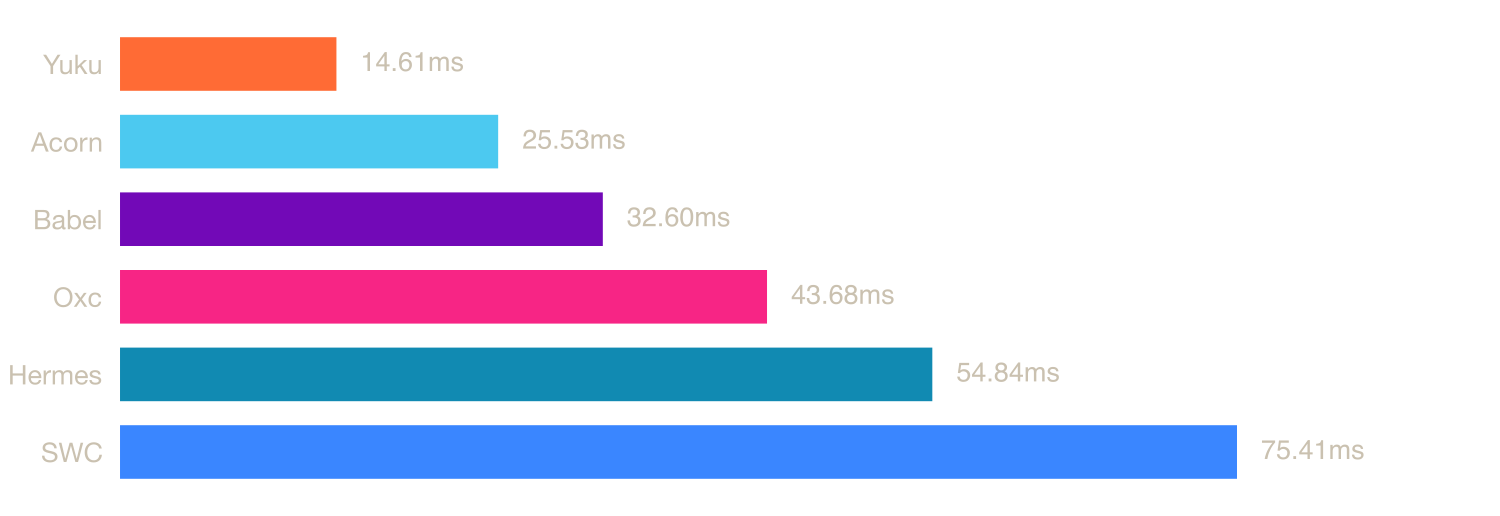
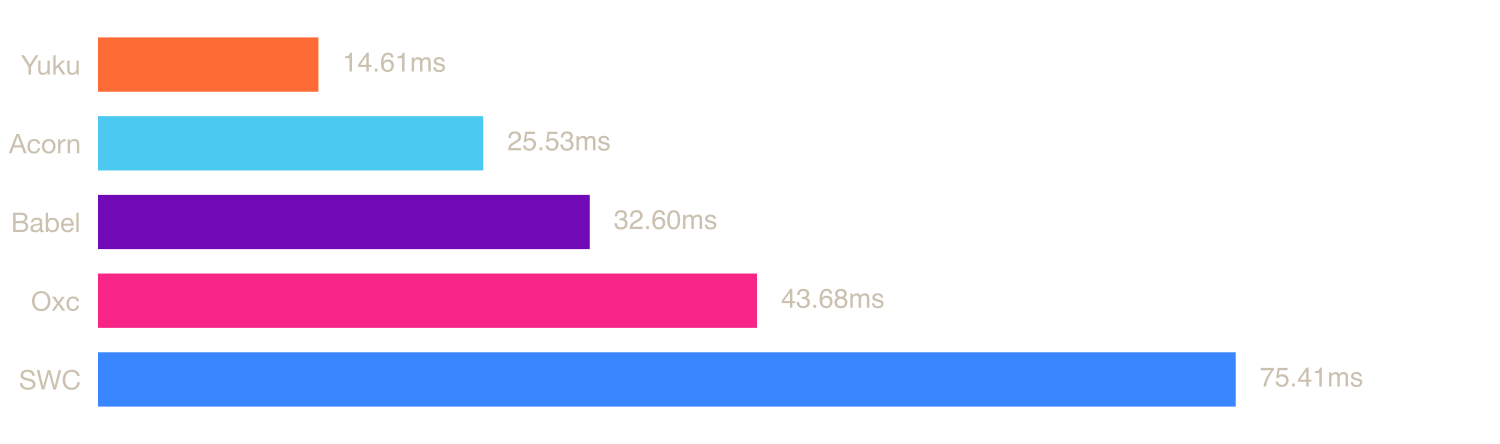
remove hermes

Changed region(s): [[0.0, 0.0586, 0.92, 0.9369]]

diff --git a/scripts/generate-readme.ts b/scripts/generate-readme.ts
@@ -20,12 +20,6 @@ const PARSERS = {
       "A JavaScript compiler and parser used by the Babel toolchain.",
     url: "https://github.com/babel/babel/tree/main/packages/babel-parser",
   },
-  hermes: {
-    name: "Hermes",
-    description:
-      "A JavaScript engine optimized for React Native, with a standalone parser available via WASM.",
-    url: "https://github.com/nicolo-ribaudo/hermes-parser",
-  },
   oxc: {
     name: "Oxc",
     description:
@@ -49,7 +43,6 @@ const PARSERS = {
 const CHART_COLORS: Record<string, string> = {
   acorn: "#4CC9F0",
   babel: "#7209B7",
-  hermes: "#118AB2",
   oxc: "#F72585",
   swc: "#3A86FF",
   yuku: "#FF6B35",
@@ -58,7 +51,6 @@ const CHART_COLORS: Record<string, string> = {
 const NAME_TO_KEY: Record<string, string> = {
   Acorn: "acorn",
   Babel: "babel",
-  Hermes: "hermes",
   Oxc: "oxc",
   SWC: "swc",
   Yuku: "yuku",

diff --git a/scripts/bench.ts b/scripts/bench.ts
@@ -5,7 +5,6 @@ import * as acorn from "acorn";
 import * as babel from "@babel/parser";
 import * as oxc from "oxc-parser";
 import swc from "@swc/core";
-import { parse as hermesParse } from "hermes-parser";
 import { parseSync as yukuParseSync } from "yuku-parser";
 
 const FILES: Record<string, string> = {
@@ -40,10 +39,6 @@ async function benchFile(fileKey: string, filePath: string): Promise<FileResult>
 
   bench.add("Babel", () => {
     const { program: _ } = babel.parse(source, { sourceType: "module" });
-  });
-
-  bench.add("Hermes", () => {
-    const { body: _ } = hermesParse(source, { sourceType: "module" });
   });
 
   bench.add("Oxc", () => {

diff --git a/README.md b/README.md
@@ -7,9 +7,9 @@ Benchmarks for ECMAScript parsers available as npm packages, including pure Java
 | Property | Value |
 |----------|-------|
 | OS | macOS 24.6.0 (arm64) |
-| CPU | Apple M4 Pro (Virtual) |
-| Cores | 6 |
-| Memory | 14 GB |
+| CPU | Apple M3 |
+| Cores | 8 |
+| Memory | 16 GB |
 
 ## Parsers
 
@@ -20,10 +20,6 @@ A tiny, fast JavaScript parser, written completely in JavaScript.
 ### [Babel](https://github.com/babel/babel/tree/main/packages/babel-parser)
 
 A JavaScript compiler and parser used by the Babel toolchain.
-
-### [Hermes](https://github.com/nicolo-ribaudo/hermes-parser)
-
-A JavaScript engine optimized for React Native, with a standalone parser available via WASM.
 
 ### [Oxc](https://github.com/oxc-project/oxc)
 
@@ -50,7 +46,6 @@ A high-performance & spec-compliant JavaScript/TypeScript compiler written in Zi
 | Yuku | 48.74 ms | 46.72 ms | 57.37 ms |
 | Acorn | 115.62 ms | 103.66 ms | 145.07 ms |
 | Babel | 156.36 ms | 127.92 ms | 198.87 ms |
-| Hermes | 242.23 ms | 221.87 ms | 287.75 ms |
 | Oxc | 242.98 ms | 226.74 ms | 279.49 ms |
 | SWC | 410.32 ms | 393.61 ms | 478.46 ms |
 
@@ -66,7 +61,6 @@ A high-performance & spec-compliant JavaScript/TypeScript compiler written in Zi
 | Acorn | 25.53 ms | 23.99 ms | 30.27 ms |
 | Babel | 32.60 ms | 25.55 ms | 57.18 ms |
 | Oxc | 43.68 ms | 42.47 ms | 48.60 ms |
-| Hermes | 54.84 ms | 50.12 ms | 73.19 ms |
 | SWC | 75.41 ms | 74.08 ms | 79.53 ms |
 
 ### [react.js](https://raw.githubusercontent.com/yuku-toolchain/parser-benchmark-files/refs/heads/main/react.js)
@@ -81,7 +75,6 @@ A high-performance & spec-compliant JavaScript/TypeScript compiler written in Zi
 | Acorn | 0.81 ms | 0.76 ms | 2.05 ms |
 | Babel | 0.95 ms | 0.82 ms | 3.80 ms |
 | Oxc | 1.34 ms | 1.29 ms | 2.38 ms |
-| Hermes | 1.62 ms | 1.52 ms | 5.75 ms |
 | SWC | 2.54 ms | 2.44 ms | 3.96 ms |
 
 ## Run Benchmarks
